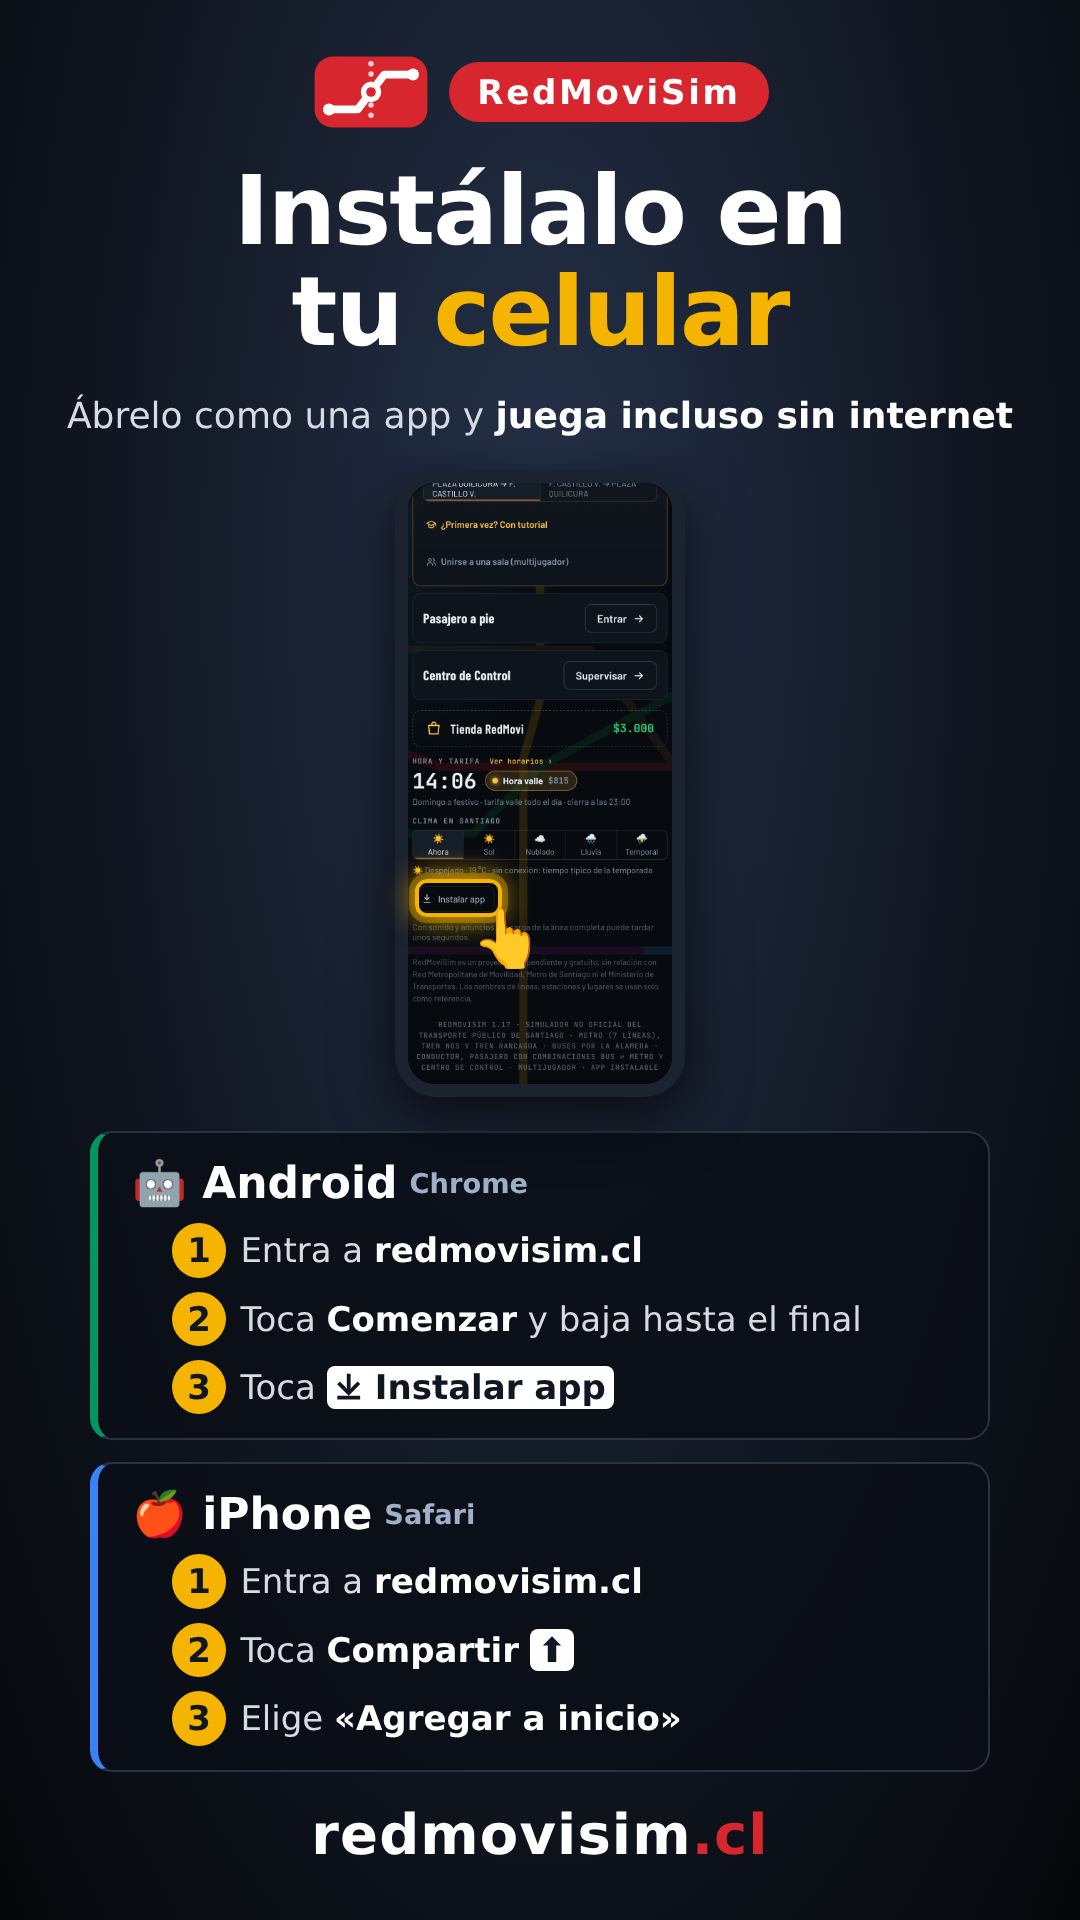
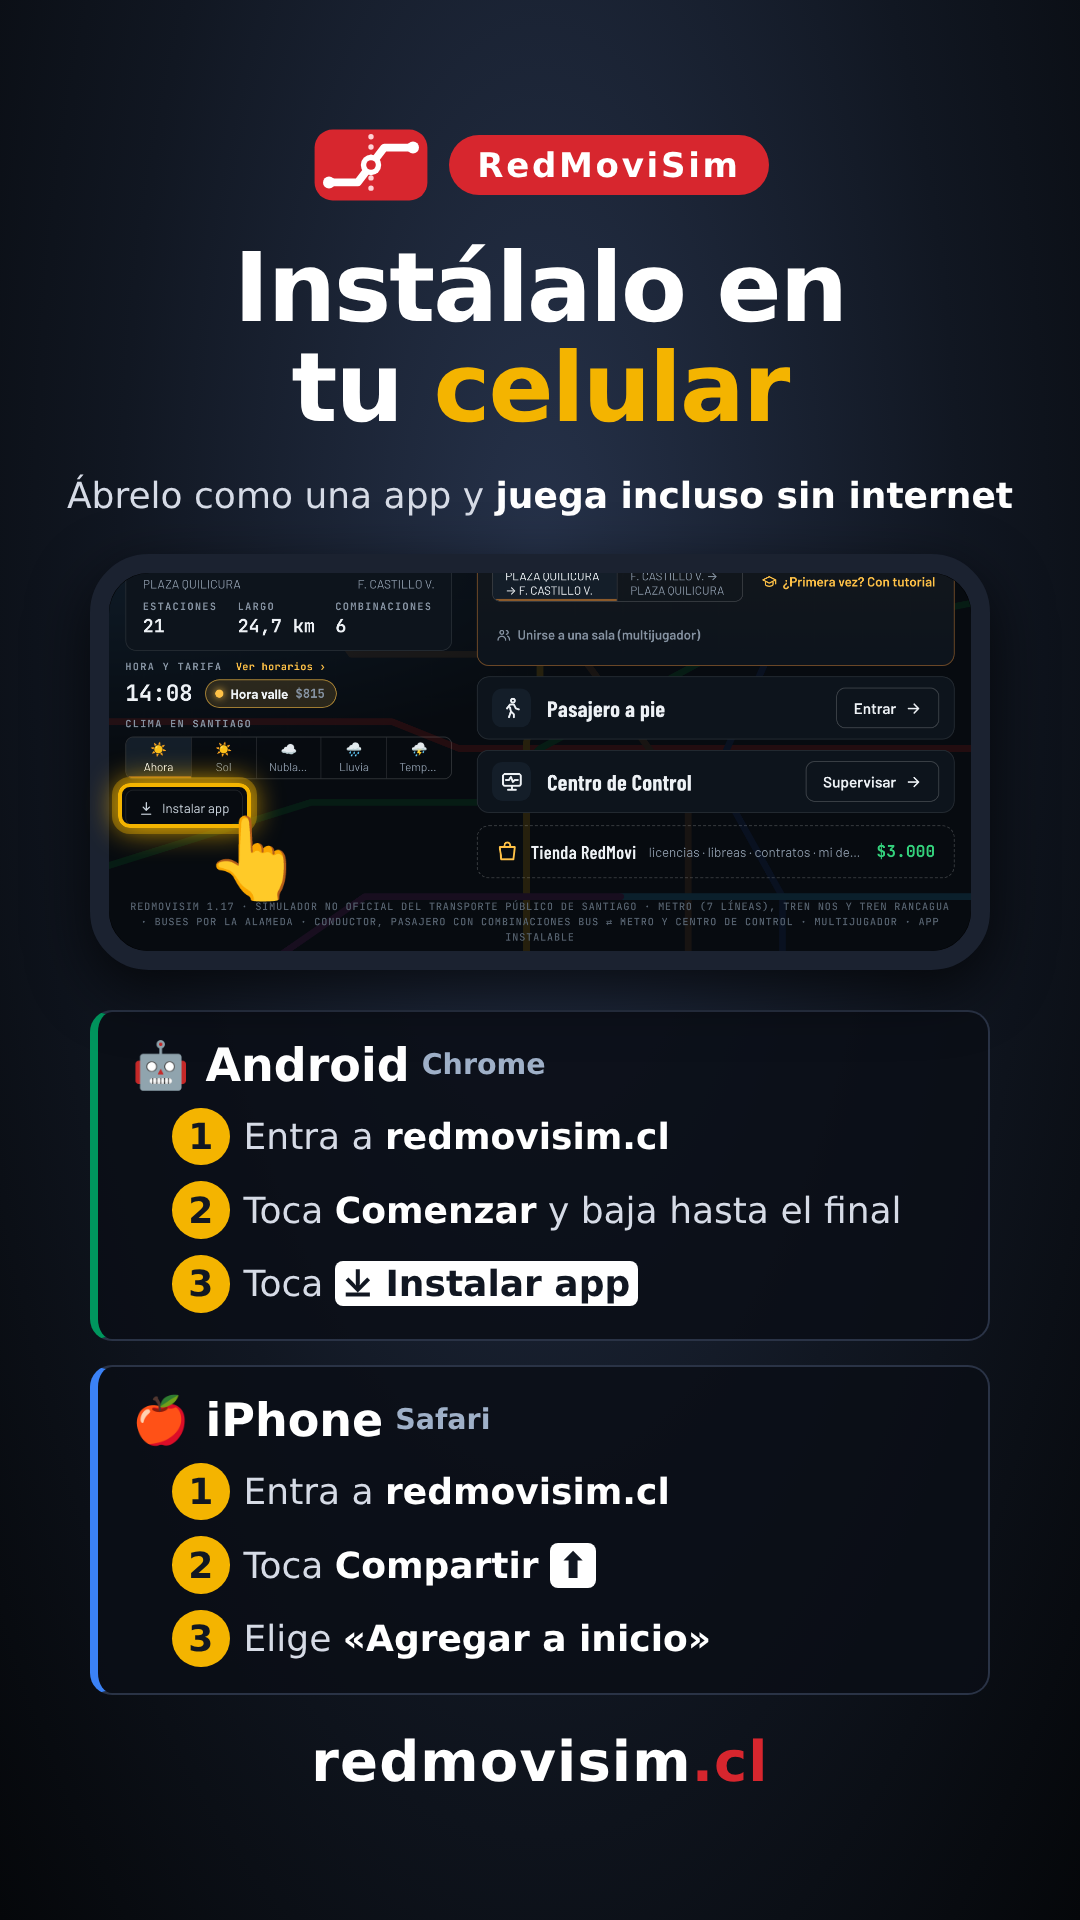
1.20.4 · Post «Instálalo en tu celular» con el celular en horizontal
Claude-Session: https://claude.ai/code/session_01XEKfgjRETh9FMSZDkcP926

diff --git a/post-instalar/plantilla.html b/post-instalar/plantilla.html
@@ -11,11 +11,11 @@ h1{font-size:var(--h1);font-weight:900;line-height:1.05;letter-spacing:-.02em}
 h1 em{font-style:normal;color:#f4b400}
 .sub{font-size:var(--p);color:#d6dbe6;line-height:1.3}.sub b{color:#fff}
 .main{display:flex;flex-direction:var(--dir,row);align-items:center;gap:var(--mgap)}
-.phone{position:relative;width:var(--pw);aspect-ratio:390/844;background:#000;border:calc(var(--pw) * .045) solid #1b2230;border-radius:calc(var(--pw) * .14);box-shadow:0 20px 60px rgba(0,0,0,.7);flex:none}
-.phone .scr{position:absolute;inset:0;overflow:hidden;border-radius:calc(var(--pw) * .1)}
+.phone{position:relative;width:var(--pw);aspect-ratio:844/390;background:#000;border:calc(var(--pw) * .022) solid #1b2230;border-radius:calc(var(--pw) * .065);box-shadow:0 20px 60px rgba(0,0,0,.7);flex:none}
+.phone .scr{position:absolute;inset:0;overflow:hidden;border-radius:calc(var(--pw) * .045)}
 .phone img{display:block;width:100%;height:100%;object-fit:cover}
-.ring{position:absolute;left:2.5%;top:65.8%;width:33%;height:6.4%;border:4px solid #f4b400;border-radius:12px;box-shadow:0 0 0 6px rgba(244,180,0,.35),0 0 30px #f4b400}
-.finger{position:absolute;left:24%;top:70%;font-size:calc(var(--pw) * .2)}
+.ring{position:absolute;left:1%;top:55.5%;width:15.5%;height:12%;border:4px solid #f4b400;border-radius:12px;box-shadow:0 0 0 6px rgba(244,180,0,.35),0 0 30px #f4b400}
+.finger{position:absolute;left:11%;top:63%;font-size:calc(var(--pw) * .09)}
 .cols{display:flex;flex-direction:var(--cdir,column);gap:var(--cgap)}
 .card{background:rgba(10,14,22,.85);border:2px solid #2a3346;border-radius:22px;padding:var(--cpad);text-align:left;width:var(--cw)}
 .card h2{font-size:var(--h2);font-weight:900;margin-bottom:var(--sgap);display:flex;align-items:center;gap:12px}
@@ -39,7 +39,7 @@ li i{flex:none;width:1.6em;height:1.6em;border-radius:50%;background:#f4b400;col
  <h1>Instálalo en tu&nbsp;<em>celular</em></h1>
  <div class="sub">Ábrelo como una app y <b>juega incluso sin internet</b></div>
  <div class="main">
-  <div class="phone"><div class="scr"><img src="cap-inicio.png"></div><div class="ring"></div><div class="finger">👆</div></div>
+  <div class="phone"><div class="scr"><img src="cap-inicio-h.png"></div><div class="ring"></div><div class="finger">👆</div></div>
   <div class="cols">
    <div class="card and"><h2>🤖 Android <small>Chrome</small></h2><ol>
     <li><i>1</i><span>Entra a <b>redmovisim.cl</b></span></li>

diff --git a/post-instalar/generar.js b/post-instalar/generar.js
@@ -2,9 +2,9 @@ const {chromium}=require('playwright');const path=require('path');
 (async()=>{const b=await chromium.launch();
 const f='file://'+path.resolve(process.argv[2]);
 const sizes=[
- ['post-cuadrado.png',1080,1080,{gap:'22px',logo:'90px',badge:'26px',h1:'74px',p:'30px',pw:'300px',mgap:'40px',cgap:'22px',cw:'600px',cpad:'22px 28px',h2:'36px',sgap:'14px',li:'27px',url:'40px'}],
- ['historia.png',1080,1920,{gap:'30px',logo:'120px',badge:'34px',h1:'96px',p:'36px',dir:'column',pw:'290px',mgap:'34px',cdir:'column',cgap:'22px',cw:'900px',cpad:'24px 34px',h2:'44px',sgap:'14px',li:'34px',url:'56px'}],
- ['portada-horizontal.png',1200,630,{gap:'12px',logo:'56px',badge:'18px',h1:'46px',p:'20px',pw:'170px',mgap:'24px',cdir:'row',cgap:'16px',cw:'390px',cpad:'16px 20px',h2:'26px',sgap:'10px',li:'19px',url:'26px'}]];
+ ['post-cuadrado.png',1080,1080,{gap:'20px',logo:'80px',badge:'24px',h1:'68px',p:'28px',dir:'column',pw:'620px',mgap:'26px',cdir:'row',cgap:'20px',cw:'470px',cpad:'20px 24px',h2:'32px',sgap:'12px',li:'23px',url:'38px'}],
+ ['historia.png',1080,1920,{gap:'34px',logo:'120px',badge:'34px',h1:'96px',p:'36px',dir:'column',pw:'900px',mgap:'40px',cdir:'column',cgap:'24px',cw:'900px',cpad:'26px 34px',h2:'46px',sgap:'16px',li:'36px',url:'56px'}],
+ ['portada-horizontal.png',1200,630,{gap:'10px',logo:'50px',badge:'18px',h1:'44px',p:'19px',pw:'560px',mgap:'26px',cdir:'column',cgap:'12px',cw:'480px',cpad:'12px 18px',h2:'22px',sgap:'6px',li:'17px',url:'24px'}]];
 for(const [n,w,h,v] of sizes){const p=await b.newPage({viewport:{width:w,height:h},deviceScaleFactor:1});
 await p.goto(f);await p.evaluate(([w,h,v])=>{const s=document.documentElement.style;s.setProperty('--w',w+'px');s.setProperty('--h',h+'px');for(const k in v)s.setProperty('--'+k,v[k]);},[w,h,v]);
 await p.screenshot({path:n});await p.close();}

diff --git a/index.html b/index.html
@@ -98,7 +98,7 @@
         <header class="start-brand">
           <img class="metro-mark" src="logo.svg" alt="">
           <h1>Red<span>Movi</span>Sim</h1>
-          <span class="start-ver">v1.20.3</span>
+          <span class="start-ver">v1.20.4</span>
         </header>
         <div class="start-hero">
           <p class="eyebrow">Simulador del transporte público de Santiago</p>

diff --git a/sw.js b/sw.js
@@ -14,7 +14,7 @@
    sin conexión.
    ========================================================================== */
 
-const CACHE = "metrosim-v1.20.3";
+const CACHE = "metrosim-v1.20.4";
 const CDN = ["cdn.jsdelivr.net", "unpkg.com"];
 
 /** Lo mínimo para que la portada abra sin conexión aunque no se haya jugado. */

diff --git a/js/config.js b/js/config.js
@@ -26,7 +26,7 @@
    y curva de demanda horaria de un día real de Santiago.
    ========================================================================== */
 
-export const VERSION = "1.20.3";
+export const VERSION = "1.20.4";
 
 /* ---------- Colores oficiales de las líneas ---------- */
 export const LINE_COLORS = {

diff --git a/README.md b/README.md
@@ -154,6 +154,7 @@ piezas que el resto del juego, así la calle se ve y se comporta como el Metro a
   horizontal que anuncian que se juega escribiendo redmovisim.cl en el navegador, con capturas reales de la portada.
 - **1.20.3 · Imágenes del post «Instálalo en tu celular»** (`post-instalar/`): post cuadrado, historia y portada
   horizontal con los pasos para instalar la app en Android (Chrome) y iPhone (Safari).
+- **1.20.4 · Post «Instálalo en tu celular» con el celular en horizontal** (`post-instalar/`).
 
 ## Versión 1.19 · Pasajeros realistas en el bus
 
